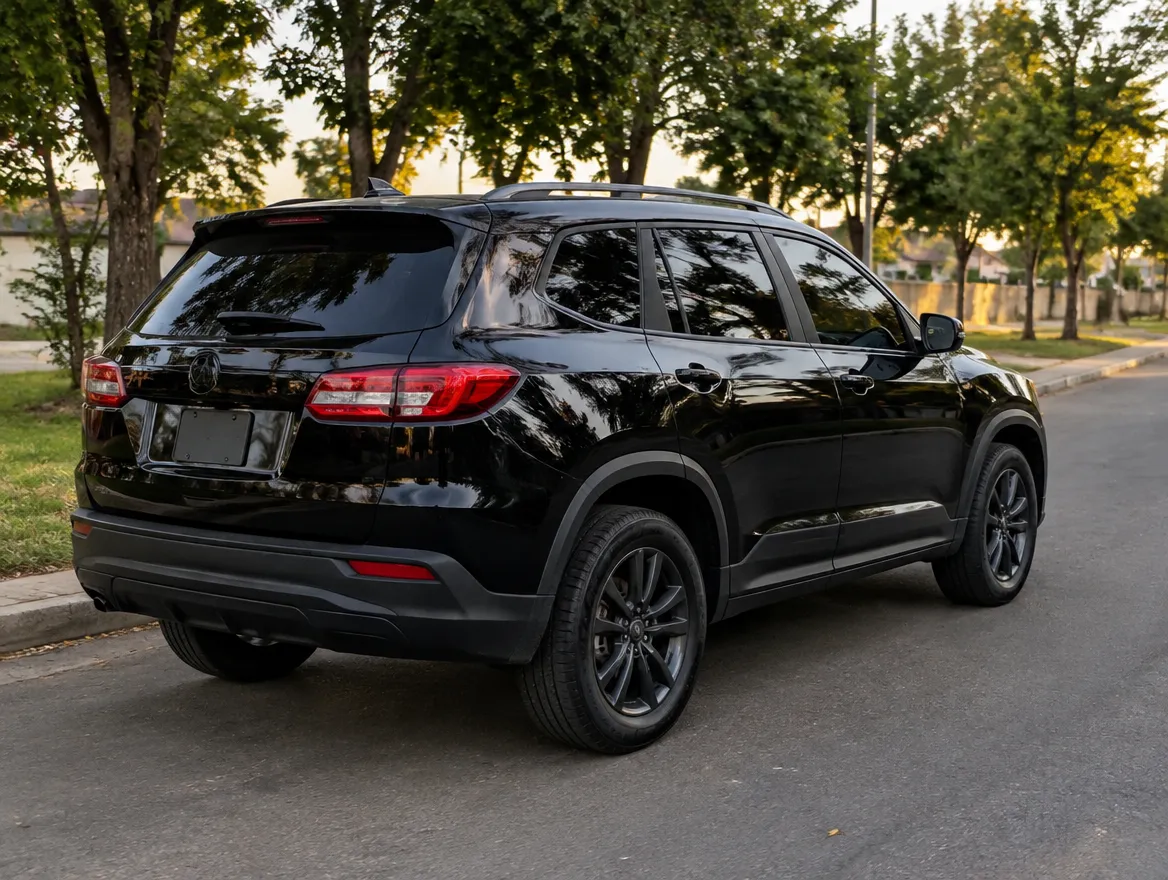
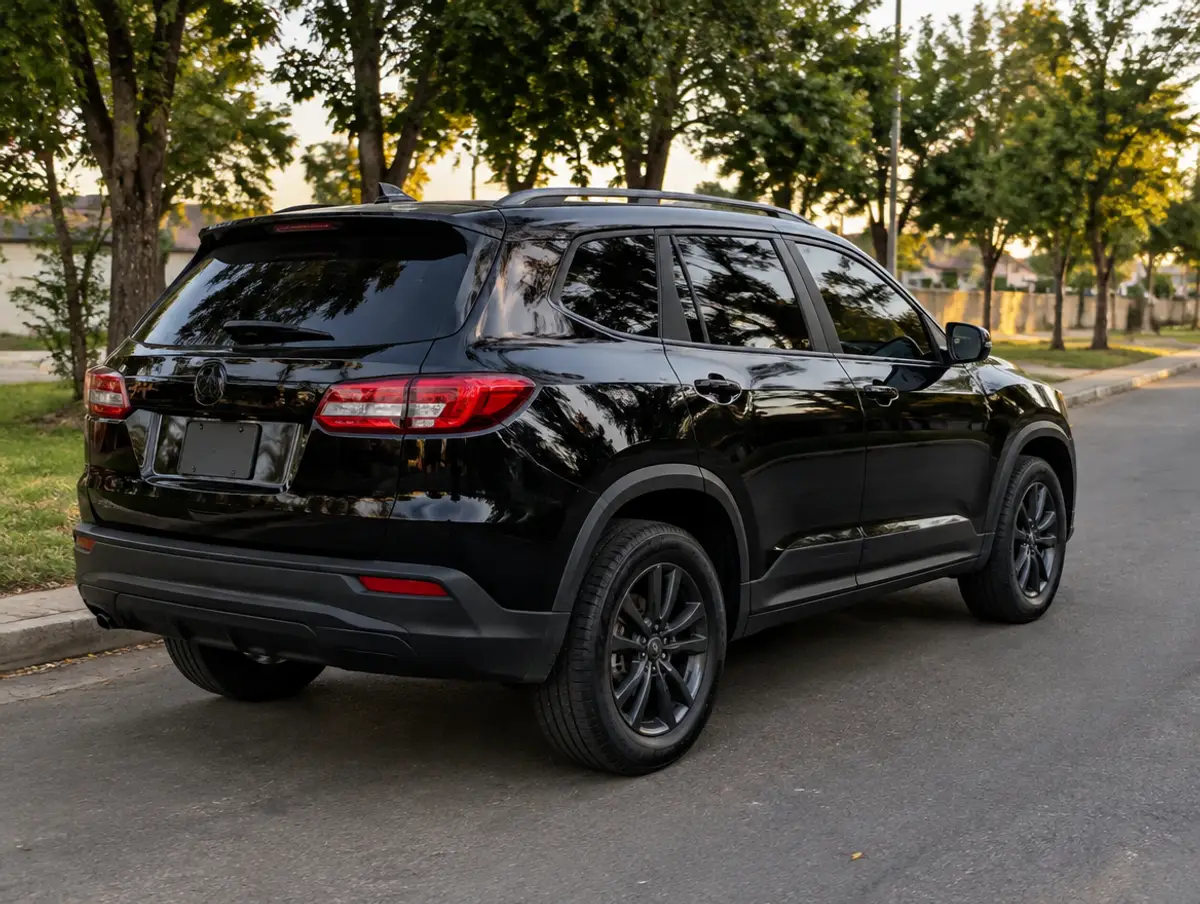
Lighthouse: contraste das etiquetas, rótulo do menu, galeria sem lazy nas primeiras fotos, preload do hero só na home

diff --git a/src/styles/global.css b/src/styles/global.css
@@ -165,7 +165,7 @@ p { margin: 0 0 1em; }
 .shade-table th, .shade-table td { text-align: left; padding: 0.55rem 0.6rem; border-bottom: 1px solid rgba(0, 0, 0, 0.1); }
 .shade-table th { font-family: var(--display); font-size: 0.8rem; letter-spacing: 0.08em; text-transform: uppercase; color: var(--muted); }
 .tag { display: inline-block; padding: 0.15rem 0.55rem; border-radius: 6px; font-size: 0.78rem; font-weight: 600; }
-.tag--ok { background: rgba(46, 158, 91, 0.14); color: #1f7a44; }
+.tag--ok { background: rgba(46, 158, 91, 0.14); color: #17633a; }
 .tag--rear { background: rgba(164, 229, 46, 0.22); color: var(--lime-deep); }
 
 /* contact */
